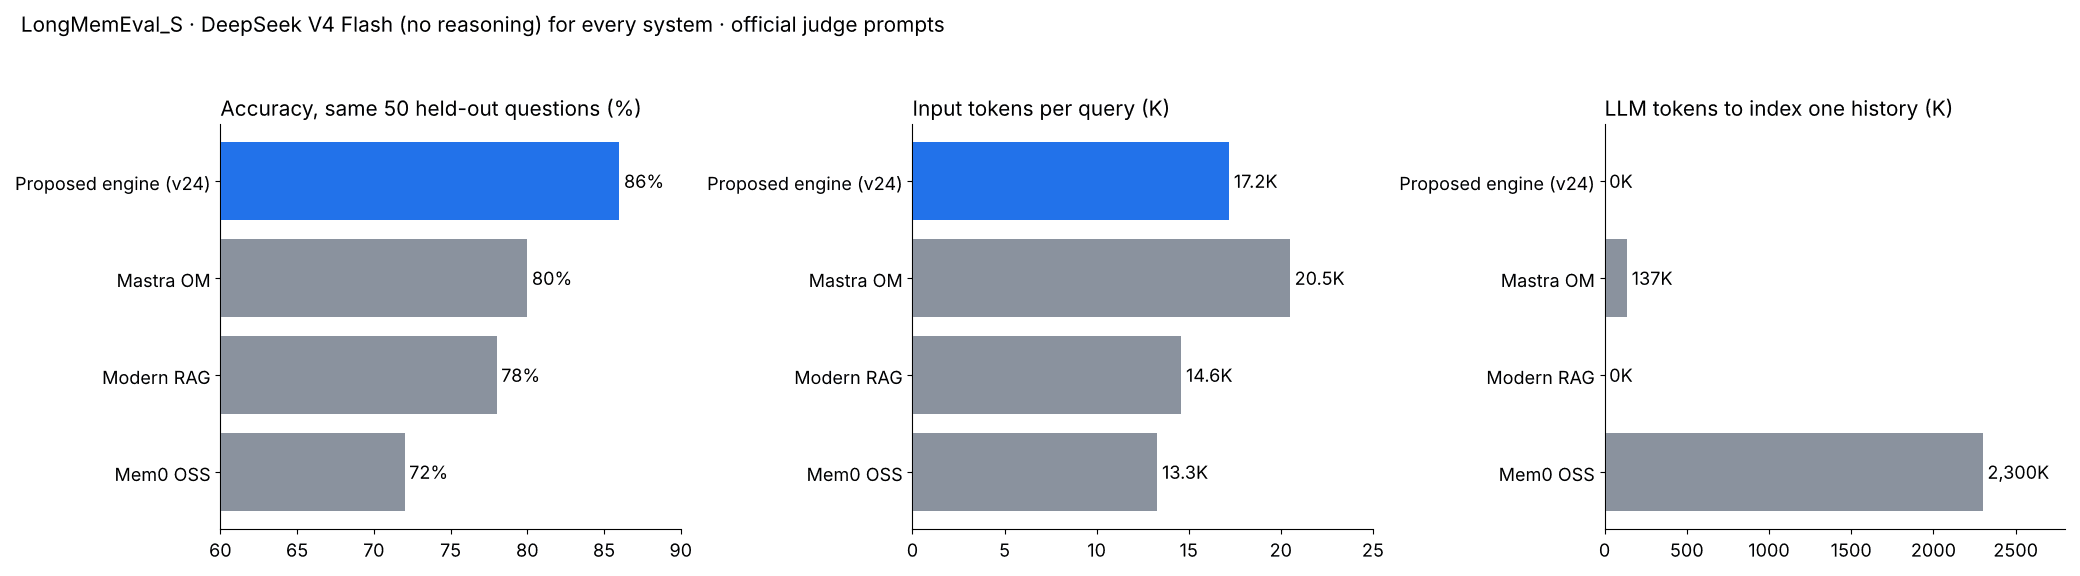
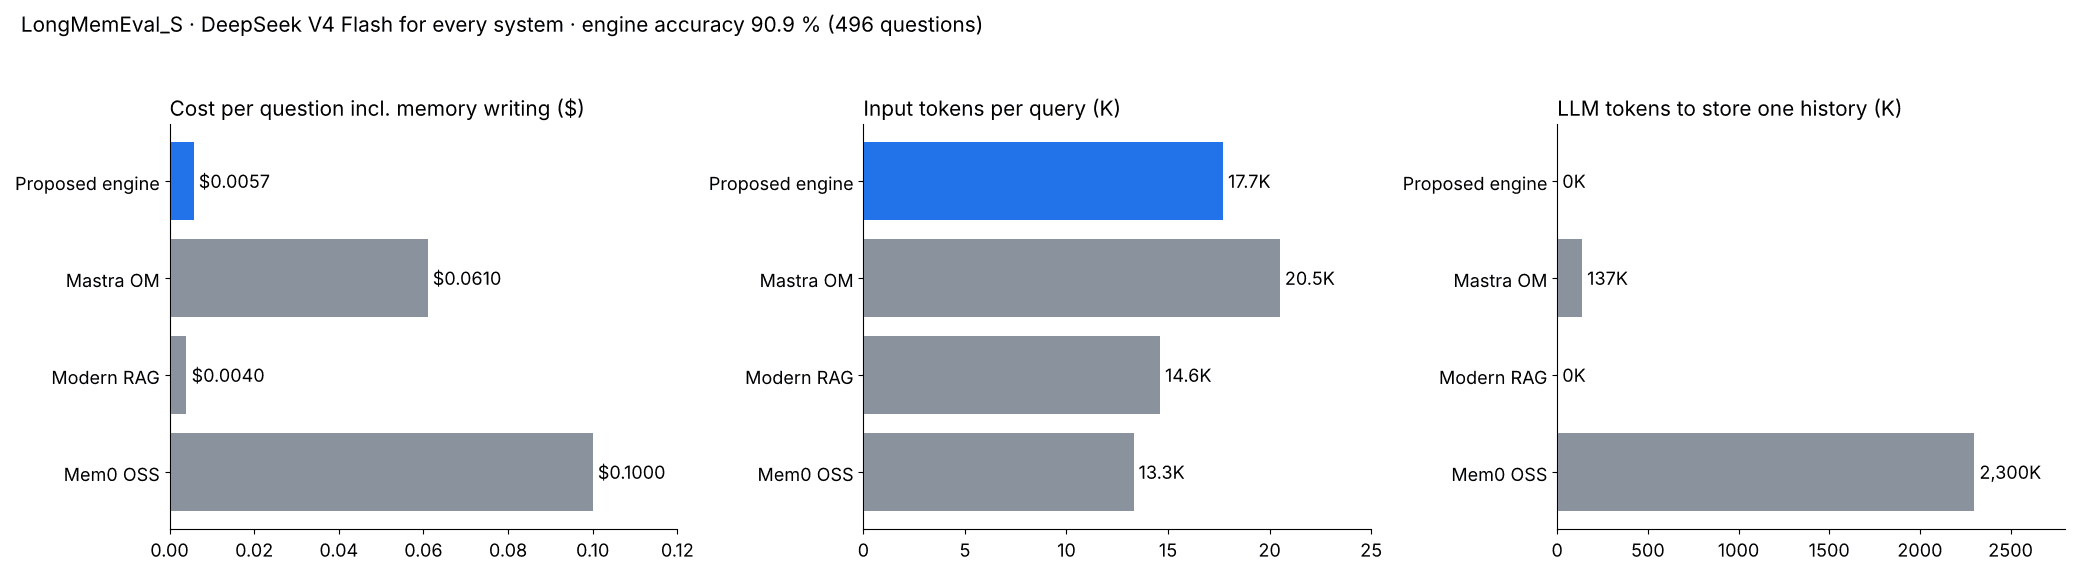
README: cost-efficiency ranking, 90.9% headline, cost chart

diff --git a/README.md b/README.md
@@ -2,92 +2,96 @@
 
 A memory layer that sits in front of any OpenAI-compatible model. Given a ~115K-token chat history and a new question, it selects what the model needs to answer. **Storing memory costs zero LLM tokens.**
 
-All numbers below were measured by me with **DeepSeek V4 Flash (no reasoning)** for every system, one answer per question, no retries, and the **official LongMemEval judge prompts**. Rivals were run, not copied from their marketing.
-
 > The engine's code is not published. This repository contains the results, per-question scores and the evaluation protocol so the numbers can be checked.
 
-## 🥇 #1 in accuracy per dollar in head-to-head testing
+## 🥇 #1 in cost efficiency on LongMemEval_S — 90.9 % at $0.0057 per question
 
-Same model (DeepSeek V4 Flash), same judge, same 50 held-out questions, memory-writing cost included:
+**The only system above 90 % that spends zero LLM tokens to store memory, running on a $0.30/M model.** Every system that scores higher pays for it with a model ~7× more expensive *and* an LLM pipeline to write memory.
 
-| System | Accuracy | Cost / question | Cost per correct answer |
+Sorted by cost: memory-writing cost first, then answer-model price.
+
+| System | LongMemEval_S | Answer model | Input price ($/M) | vs. DeepSeek Flash | LLM tokens to store memory |
+|---|---|---|---|---|---|
+| **🥇 Proposed engine (v24)** | **90.9 %** (496 q.) | **DeepSeek V4 Flash** | **0.30** | **1×** | **0** |
+| Modern RAG (measured here) | 74.8 % | DeepSeek V4 Flash | 0.30 | 1× | 0 |
+| Hindsight | 89.0 % | gpt-oss-120B | ~0.10 | ~0.3× | Yes (fact extraction) |
+| Honcho | 90.4 % | Claude Haiku 4.5 | 1.00 | 3.3× | Yes (Gemini 2.5 Flash Lite) |
+| ByteRover | 92.8 % | Gemini 3.1 Pro | 2.00 | 6.7× | Yes (Gemini 3 Flash curation) |
+| Hindsight | 91.4 % | Gemini 3 Pro | 2.00 | 6.7× | Yes (fact extraction) |
+| Supermemory | 85.2 % | Gemini 3 | – | – | Yes |
+| Zep | 71.2 % | GPT-4o | 2.50 | 8.3× | Yes (graph extraction) |
+| Emergence (Internal) | 86.0 % | not published | – | – | not published |
+
+- Proposed engine and Modern RAG: measured by me with DeepSeek V4 Flash and the official LongMemEval judge templates. Other rows: figures published by each vendor, not reproduced here; none of them publishes cost per question.
+- Prices are list prices for ≤200K-token prompts (October 2026).
+
+**Not ranked** — published figures that are not comparable:
+
+| System | Published | Why not comparable | My reproduction with DeepSeek V4 Flash |
 |---|---|---|---|
-| **Proposed engine (v24)** | **86 %** | **0.0057 $** | **0.0066 $** |
-| Mastra Observational Memory | 80 % | ~0.061 $ | ~0.076 $ |
-| Modern RAG | 78 % | ~0.004 $ | ~0.005 $ |
-| Mem0 open source | 72 % | ~0.10 $ | ~0.14 $ |
+| Mastra Observational Memory | 94.9 % (gpt-5-mini) | The published harness does not trigger the observer with released versions | 80 % (50 held-out q.); ~11× the engine's cost per question |
+| Mem0 (commercial platform) | 94.4 % (GPT-4o) | Own lenient judge; answer prompt contains rules written for specific test questions | Mem0 OSS 72 % (50 held-out q.); ~18× the engine's cost per question |
+| Hindsight | 94.6 % | Model, judge and per-type results not published | – |
 
-- **Most accurate system tested** — and **~11× cheaper than Mastra OM, ~18× cheaper than Mem0**.
-- **No tested system is both cheaper and more accurate.** Plain RAG is slightly cheaper but 8 points less accurate (on the full held-out half: 74.8 % vs 89.2 %).
-- Costs at DeepSeek list price (0.30 / 1.20 $ per M tokens). Engine cost is measured; rival costs are computed from their measured token usage.
-
-![Head-to-head](head_to_head.png)
-
-## Headline result (engine v24)
+## Engine results (v24)
 
 | Split | Questions | Accuracy | Macro (6 types) | Input tokens / query | Cost / question |
 |---|---|---|---|---|---|
-| **Odd half — held-out** (not used for development) | 250 | **89.2 %** | 89.8 % | 17.7K | 0.0056 $ |
-| Even half — development set | 246 | 92.7 % | 94.0 % | 17.7K | 0.0057 $ |
 | **All** | **496** | **90.9 %** (±2.5, 95 % CI) | 91.9 % | 17.7K | **0.0057 $** |
+| Odd half — held-out (not used for development) | 250 | 89.2 % | 89.8 % | 17.7K | 0.0056 $ |
+| Even half — development set | 246 | 92.7 % | 94.0 % | 17.7K | 0.0057 $ |
 
-- The held-out half was run once with the configuration frozen on the even half. The 3.5-point gap between halves is within the confidence intervals.
-- Even-half run stopped at 246/250. Median latency of the model call: 2.7 s.
-- Per-question results: [`odd_heldout_v24.csv`](odd_heldout_v24.csv), [`even_design_set_v24.csv`](even_design_set_v24.csv) (both also include v14 on the same questions).
+- Configuration frozen on the even half, then run once on the held-out odd half. The gap between halves is within the confidence intervals.
+- Median latency of the model call: 2.7 s.
 - Improvement over the previous engine (v14) on the held-out half: 85.6 % → 89.2 %.
 
 ### Per type
 
-| Type | Held-out (odd) | Development (even) | All |
+| Type | All | Held-out (odd) | Development (even) |
 |---|---|---|---|
-| knowledge-update | 37/39 | 39/39 | 76/78 |
-| single-session-user | 33/35 | 34/35 | 67/70 |
-| single-session-assistant | 28/28 | 23/24 | 51/52 |
-| single-session-preference | 12/15 | 14/15 | 26/30 |
-| temporal-reasoning | 60/67 | 61/66 | 121/133 |
-| multi-session | 53/66 | 57/67 | 110/133 |
+| knowledge-update | 76/78 | 37/39 | 39/39 |
+| single-session-user | 67/70 | 33/35 | 34/35 |
+| single-session-assistant | 51/52 | 28/28 | 23/24 |
+| single-session-preference | 26/30 | 12/15 | 14/15 |
+| temporal-reasoning | 121/133 | 60/67 | 61/66 |
+| multi-session | 110/133 | 53/66 | 57/67 |
 
-## Head-to-head vs Mastra and Mem0 (same 50 held-out questions)
+## Cost vs Mastra OM and Mem0 (same model, measured)
 
-| System | Accuracy | LLM tokens to store one history | Input tokens / query |
+![Cost comparison](head_to_head.png)
+
+| System | Cost / question (incl. memory writing) | LLM tokens to store one history | Input tokens / query |
 |---|---|---|---|
-| **Proposed engine (v24)** | **86 %** (43/50) | **0** | 17.2K |
-| Proposed engine (v14, earlier) | 84 % (42/50) | 0 | 14.6K |
-| Mastra Observational Memory | 80 % (40/50) | ~122K in + ~15K out | 20.5K |
-| Modern RAG (BM25 + Qwen3-Embedding-0.6B + bge-reranker-v2-m3) | 78 % (39/50) | 0 | 14.6K |
-| Mem0 open source (its harness settings, top-200) | 72 % (36/50) | ~2.3M in | 13.3K |
-
-- Stratified sample of 50 odd-numbered questions (seed 20261013). Per-question results: [`head_to_head_50.csv`](head_to_head_50.csv).
-- v24 vs Mastra: 6 vs 3 discordant questions (sign test p ≈ 0.51). v24 vs Mem0: 9 vs 2 (p ≈ 0.065). With n = 50 these differences are **not statistically significant**.
-
-## Token cost
+| **Proposed engine** | **0.0057 $** | **0** | 17.7K |
+| Mastra Observational Memory | ~0.061 $ | ~122K in + ~15K out | 20.5K |
+| Mem0 open source | ~0.10 $ | ~2.3M in | 13.3K |
+| Modern RAG | ~0.004 $ | 0 | 14.6K |
 
 - **~85 % fewer input tokens per question** than sending the full history (17.7K vs ~115K).
-- **Zero LLM tokens to write memory.** Mastra OM spends ~137K tokens per long history to build its observations; Mem0 ~2.3M.
-- Measured cost with DeepSeek V4 Flash (0.30 / 1.20 $ per M tokens): ~0.0057 $ per question.
+- Costs at DeepSeek list price (0.30 / 1.20 $ per M tokens). Engine cost measured; rival costs computed from their measured token usage.
 
 ## Protocol
 
 - Benchmark: LongMemEval_S cleaned (Wu et al., ICLR 2025), 500 questions, histories of ~115K tokens, six types.
-- Split: even-numbered questions for development; odd-numbered questions held out for confirmation and the head-to-head.
-- Model: `deepseek-flash` via api.deepseek.com, reasoning disabled, max 512 answer tokens. Judge: same model with the official LongMemEval judge templates.
-- Mastra OM: `@mastra/memory` 1.37.1-alpha.2 via its public API with the published configuration (observe at 30K, reflect at 80K). Their published harness did not trigger the observer with released versions, so the integration is my own.
+- Model: `deepseek-flash` via api.deepseek.com, reasoning disabled, max 512 answer tokens, one answer per question, no retries. Judge: same model with the official LongMemEval judge templates.
+- Split: even-numbered questions for development; odd-numbered questions held out.
+- Mastra OM: `@mastra/memory` 1.37.1-alpha.2 via its public API with the published configuration (observe at 30K, reflect at 80K); integration is my own because the published harness did not trigger the observer.
 - Mem0: OSS 2.2.1, its benchmark harness ingestion (chronological, one `add()` per turn pair, top-200 retrieval, its answer prompt).
 
 ## Files
 
 | File | Content |
 |---|---|
-| `odd_heldout_v24.csv` | Held-out run, per question (v24, plus v14 on the same questions) |
+| `odd_heldout_v24.csv` | Held-out run, per question (v24, plus v14) |
 | `even_design_set_v24.csv` | Development-set run, per question (v24, plus v14) |
-| `head_to_head_50.csv` | Engine v24 / v14 vs Mastra OM vs Mem0 on the same 50 questions |
-| `odd_250_heldout_proposed.csv` | Earlier v14 held-out run (kept for reference) |
-| `head_to_head.png` | Chart above |
+| `head_to_head_50.csv` | Per-question results vs Mastra OM and Mem0 on 50 held-out questions |
+| `odd_250_heldout_proposed.csv` | Earlier v14 held-out run |
+| `head_to_head.png` | Cost chart |
 
 ## Limits
 
 - One benchmark, one model (DeepSeek V4 Flash).
-- Vendor-published figures (Mastra 94.87 % with gpt-5-mini, Mem0 94.4 % on its commercial platform with GPT-4o and its own judge) use other models, judges and scoring and are not comparable to the tables above.
+- Vendor figures in the ranking use other models and judges and are not reproduced here.
 - Lab version: selection takes several seconds per query on a 16 GB consumer GPU.
 
 ## Licensing
